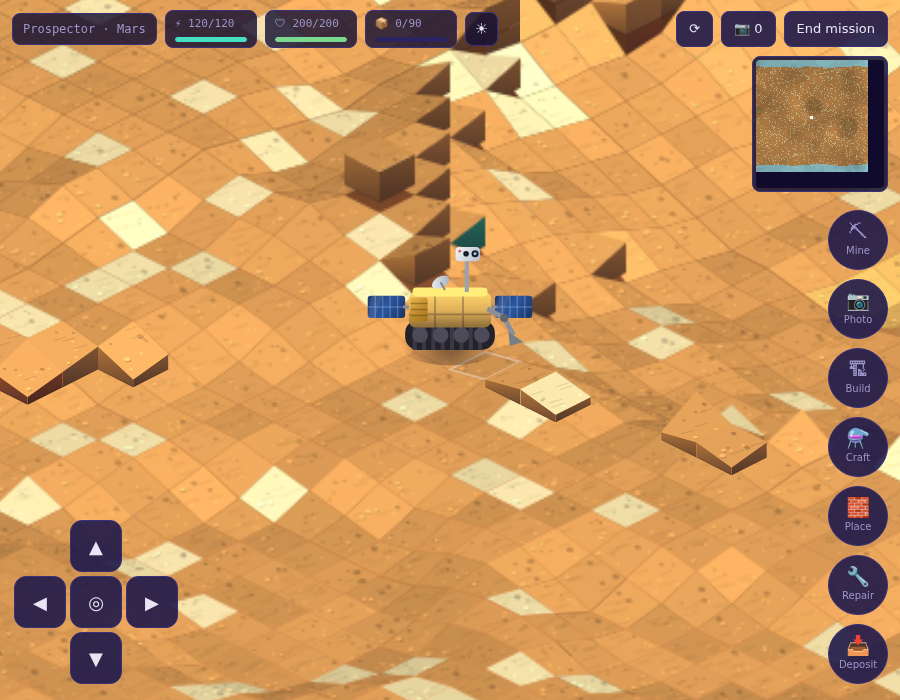
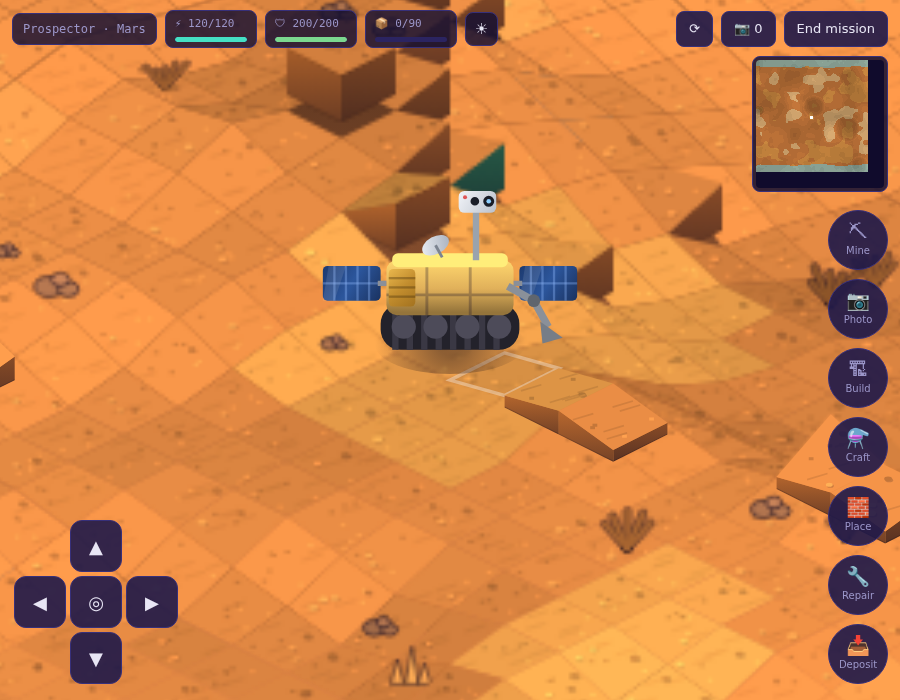
Crashlands-scale framing, organic biome patches, decorative scatter
- Camera: default zoom 3.4 (tile ~110px), min zoom 1.8 — the rover and
  terrain read large on screen and tap targets stop feeling fiddly
- Terrain: surface materials form large organic patches (silica flats,
  dust basins, regolith uplands) via low-frequency noise instead of
  per-tile rolls; ground brightness varies in smooth blobs, killing the
  checkerboard look
- Doodads: seeded scatter props (dry tufts, rounded rock clusters,
  ice/crystal shards) with chunky dark outlines on ~7% of open tiles,
  cached in chunk canvases so they cost nothing per frame

Claude-Session: https://claude.ai/code/session_015iroimAc52kexi49WfPY1G

diff --git a/packages/engine/src/render/renderer.ts b/packages/engine/src/render/renderer.ts
@@ -6,6 +6,7 @@ import { drawAnomaly, drawRover, drawStructure } from './entities.js';
 import { project, TILE_H, TILE_W, TILE_Z, shade } from './sprites.js';
 import { MATERIALS } from '../world/materials.js';
 import { hash2, hash3 } from '../util/rng.js';
+import { fbm2 } from '../util/noise.js';
 
 const CHUNK = 16;
 /** Height deltas up to this blend into smooth slopes; larger become cliffs. */
@@ -281,9 +282,12 @@ export class IsoRenderer {
     const def = MATERIALS[m];
     const topColor = this.tinted(m, 0);
     // Lighting: sun from screen top-left; slope toward it brightens.
+    // Ground tone varies in smooth organic blobs (low-frequency noise) plus
+    // a whisper of per-tile grain — no checkerboard, Crashlands-style patches.
     const slope = (cs[0] - cs[2]) * 0.16 + (cs[3] - cs[1]) * 0.07;
-    const jitter = 1 + (hash2(w.x, w.y, 0xf00d) - 0.5) * 2 * def.jitter;
-    const bright = Math.max(0.62, Math.min(1.34, (1 + slope) * jitter));
+    const blob = (fbm2(w.x * 0.11, w.y * 0.11, this.sim.seed ^ 0x600d, 3) - 0.5) * 0.34;
+    const grain = (hash2(w.x, w.y, 0xf00d) - 0.5) * def.jitter * 0.6;
+    const bright = Math.max(0.62, Math.min(1.36, 1 + slope + blob + grain));
 
     g.beginPath();
     g.moveTo(pT.x, pT.y);
@@ -353,6 +357,88 @@ export class IsoRenderer {
       ao.addColorStop(1, 'rgba(12,8,26,0)');
       g.fillStyle = ao;
       g.fill();
+    }
+    g.restore();
+
+    // Decorative scatter: tufts, rock clusters and shards on ~1 in 14 open
+    // tiles. Part of the cached chunk, so it costs nothing per frame.
+    const doodadRoll = hash2(w.x, w.y, 0xd00d);
+    if (doodadRoll < 0.07 && m !== Material.Basalt && m !== Material.Rock) {
+      const cz = (cs[0] + cs[1] + cs[2] + cs[3]) / 4;
+      const c = proj(u, v, cz);
+      const ox = (hash2(w.x, w.y, 0xa11) - 0.5) * 10 * scale;
+      const oy = (hash2(w.x, w.y, 0xb22) - 0.5) * 5 * scale;
+      this.drawDoodad(g, c.x + ox, c.y + oy, scale, w.x, w.y, m, bright);
+    }
+  }
+
+  /** Small hand-placed-looking props with chunky outlines. */
+  private drawDoodad(
+    g: CanvasRenderingContext2D,
+    x: number,
+    y: number,
+    s: number,
+    wx: number,
+    wy: number,
+    m: Material,
+    bright: number,
+  ): void {
+    const kind = Math.floor(hash2(wx, wy, 0xdaa) * 3);
+    const size = (0.7 + hash2(wx, wy, 0xebb) * 0.6) * s;
+    const outline = 'rgba(20,12,32,0.55)';
+    g.save();
+    g.translate(x, y);
+    g.lineJoin = 'round';
+
+    if (m === Material.Ice || kind === 2) {
+      // Ice/crystal shards.
+      const tint = m === Material.Ice ? this.tinted(Material.Ice, 0) : this.tinted(m, 0);
+      for (const [dx, h] of [[-3, 6], [0.5, 9], [3.5, 5]] as [number, number][]) {
+        g.fillStyle = shade(tint, 1.15 + h * 0.01);
+        g.strokeStyle = outline;
+        g.lineWidth = 0.8 * s;
+        g.beginPath();
+        g.moveTo((dx - 1.6) * size, 1.5 * size);
+        g.lineTo(dx * size, (1.5 - h) * size);
+        g.lineTo((dx + 1.6) * size, 1.5 * size);
+        g.closePath();
+        g.fill();
+        g.stroke();
+      }
+    } else if (kind === 0) {
+      // Dry tuft: splayed blades.
+      g.strokeStyle = outline;
+      g.lineWidth = 2.2 * size;
+      g.lineCap = 'round';
+      const tuft = m === Material.Sulfur ? '#e8cf58' : shade(this.tinted(m, 0), bright * 0.72);
+      for (const a of [-0.9, -0.45, 0, 0.45, 0.9]) {
+        const len = (5 + hash2(wx + a * 10, wy, 0xfcc) * 4) * size;
+        g.beginPath();
+        g.moveTo(0, 1.5 * size);
+        g.lineTo(Math.sin(a) * len, 1.5 * size - Math.cos(a * 0.6) * len);
+        g.stroke();
+      }
+      g.strokeStyle = tuft;
+      g.lineWidth = 1.3 * size;
+      for (const a of [-0.9, -0.45, 0, 0.45, 0.9]) {
+        const len = (5 + hash2(wx + a * 10, wy, 0xfcc) * 4) * size;
+        g.beginPath();
+        g.moveTo(0, 1.5 * size);
+        g.lineTo(Math.sin(a) * len, 1.5 * size - Math.cos(a * 0.6) * len);
+        g.stroke();
+      }
+    } else {
+      // Rounded rock cluster.
+      const rockHex = this.tinted(Material.Rock, 0);
+      for (const [dx, dy, r] of [[-2.5, 0.5, 3.2], [2, 1, 2.4], [0.2, -1.2, 2.1]] as [number, number, number][]) {
+        g.fillStyle = shade(rockHex, bright * (1.05 - Math.abs(dx) * 0.05));
+        g.strokeStyle = outline;
+        g.lineWidth = 0.9 * s;
+        g.beginPath();
+        g.ellipse(dx * size, dy * size, r * size, r * 0.72 * size, 0, 0, Math.PI * 2);
+        g.fill();
+        g.stroke();
+      }
     }
     g.restore();
   }

diff --git a/packages/engine/src/world/terrain.ts b/packages/engine/src/world/terrain.ts
@@ -118,10 +118,12 @@ function pickMaterial(
   if (sulfurous && depth === 0) return Material.Sulfur;
 
   if (depth === 0) {
-    // Surface skin: dust in low spots, regolith elsewhere, silica patches.
-    const s = hash2(x, y, seed + 5);
-    if (s < 0.12) return Material.Silica;
-    return z <= 2 ? Material.Dust : Material.Regolith;
+    // Surface skin in large organic patches (not per-tile noise): silica
+    // flats, dust basins and regolith uplands read as biome-like regions.
+    const patch = fbm2(x * 0.055, y * 0.055, seed + 5, 3);
+    if (patch > 0.66) return Material.Silica;
+    if (patch < 0.38 || z <= 2) return Material.Dust;
+    return Material.Regolith;
   }
   if (depth <= 2) return Material.Regolith;
   if (depth <= 5) return Material.Rock;

diff --git a/packages/engine/src/render/camera.ts b/packages/engine/src/render/camera.ts
@@ -7,9 +7,11 @@ import { project } from './sprites.js';
 export class Camera {
   cx = 0;
   cy = 0;
-  zoom = 2.2;
-  minZoom = 0.8;
-  maxZoom = 5;
+  /** Crashlands-scale framing: a tile is ~110px wide by default and the
+   * camera can't zoom out to ant-scale. */
+  zoom = 3.4;
+  minZoom = 1.8;
+  maxZoom = 6;
   viewW = 800;
   viewH = 600;
   follow = true;
